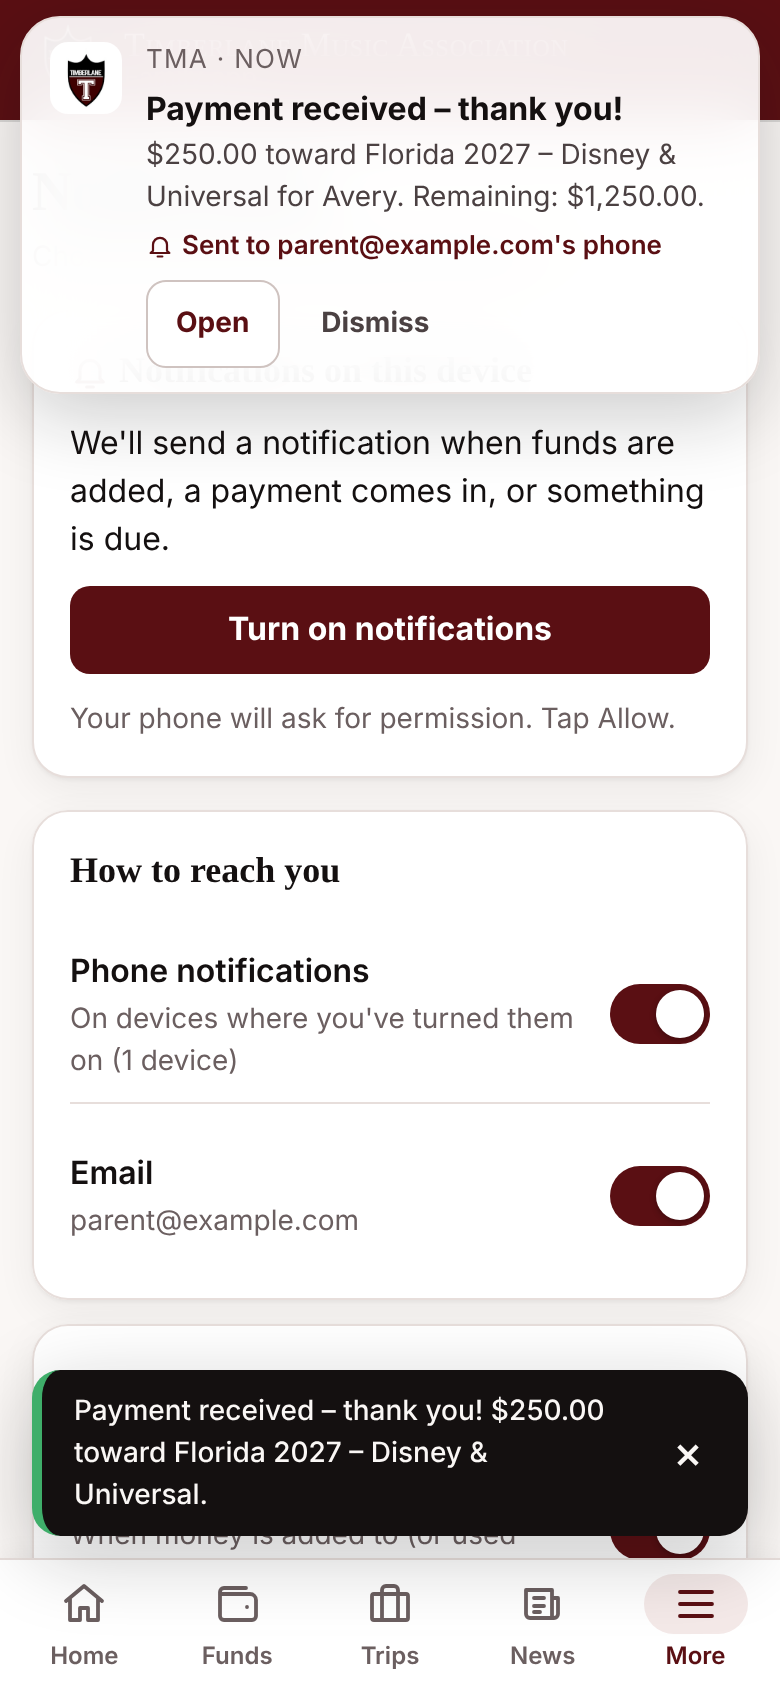
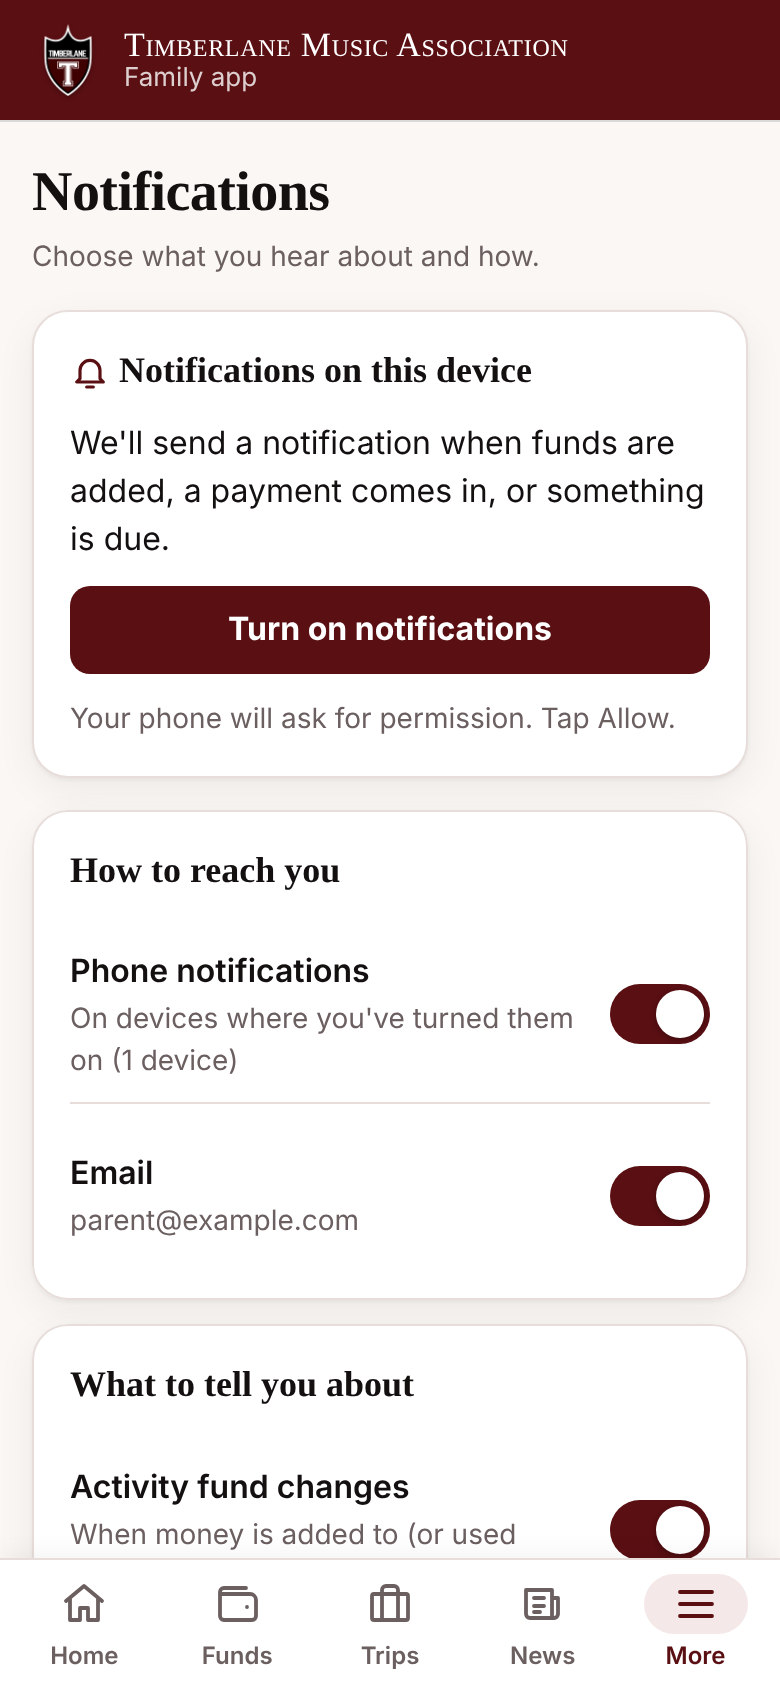
Add Playwright demo smoke test and refresh screenshots
Claude-Session: https://claude.ai/code/session_01FYUxguvRVi9Tkxqqi8m9S3

Changed region(s): [[0.0, 0.0, 0.9846, 0.2464], [0.0308, 0.8009, 0.9846, 0.9242]]

diff --git a/e2e/demo.spec.ts b/e2e/demo.spec.ts
@@ -1,0 +1,115 @@
+/**
+ * Smoke test of the demo build at phone size (ARCHITECTURE.md §11): a parent
+ * asks to use activity funds and pays online, the treasurer approves and posts
+ * a fundraiser credit, and the parent's "phone" gets the notification. It also
+ * refreshes the README screenshots in docs/screenshots.
+ *
+ * Run `npm run build:web` first; playwright.config.ts serves dist with vite preview.
+ */
+import { expect, test, type Page } from '@playwright/test';
+import { mkdirSync } from 'node:fs';
+import { fileURLToPath } from 'node:url';
+
+const SHOTS = fileURLToPath(new URL('../docs/screenshots/', import.meta.url));
+mkdirSync(SHOTS, { recursive: true });
+
+test.use({ viewport: { width: 390, height: 844 }, deviceScaleFactor: 2, contextOptions: { reducedMotion: 'reduce' } });
+
+async function shot(page: Page, name: string): Promise<void> {
+  await page.screenshot({ path: `${SHOTS}${name}.png`, animations: 'disabled' });
+}
+
+async function tab(page: Page, name: 'Home' | 'Funds' | 'Trips' | 'News' | 'More'): Promise<void> {
+  await page.getByRole('navigation', { name: 'Main' }).getByRole('link', { name }).click();
+}
+
+/** Dismiss toasts and in-app push banners (keeps screenshots and later assertions clear). */
+async function clearMessages(page: Page): Promise<void> {
+  const dismissers = page
+    .getByRole('button', { name: 'Dismiss message' })
+    .or(page.locator('.push-banner').getByRole('button', { name: 'Dismiss' }));
+  while ((await dismissers.count()) > 0) await dismissers.first().click();
+}
+
+async function signOut(page: Page): Promise<void> {
+  await tab(page, 'More');
+  await page.getByRole('button', { name: 'Sign out' }).click();
+  await expect(page.getByRole('button', { name: /Try as a parent/ })).toBeVisible();
+}
+
+test('parent pays and redeems, treasurer approves, parent is notified', async ({ page }) => {
+  const problems: string[] = [];
+  page.on('pageerror', (err) => problems.push(`pageerror: ${err.message}`));
+  page.on('console', (msg) => {
+    if (msg.type() === 'error') problems.push(`console: ${msg.text()}`);
+  });
+
+  // --- Sign in as a parent -----------------------------------------------------
+  await page.goto('./');
+  await expect(page.getByRole('button', { name: /Try as a parent/ })).toBeVisible();
+  await shot(page, 'signin');
+
+  await page.getByRole('button', { name: /Try as a parent/ }).click();
+  await expect(page.getByText('Available activity funds').first()).toBeVisible();
+  await expect(page.getByText('$440.00').first()).toBeVisible(); // Avery: $640 − $200 pending
+  await shot(page, 'home');
+
+  // --- Ask to use $100 of Avery's funds for Florida ----------------------------
+  await tab(page, 'Trips');
+  const useFunds = page.getByRole('button', { name: 'Use activity funds' }).first();
+  await expect(useFunds).toBeVisible();
+  await shot(page, 'trips');
+
+  await useFunds.click();
+  let dialog = page.getByRole('dialog');
+  await dialog.getByLabel('Amount to apply').fill('100.00');
+  await dialog.getByRole('button', { name: 'Send request' }).click();
+  await expect(dialog).toBeHidden();
+  await expect(page.getByText(/Request sent: \$100\.00/)).toBeVisible();
+  await clearMessages(page);
+
+  // --- Pay $250 online with the demo PayPal buttons ----------------------------
+  await page.getByRole('button', { name: 'Pay online' }).first().click();
+  dialog = page.getByRole('dialog');
+  await dialog.getByLabel('Amount to pay').fill('250.00');
+  const paypal = dialog.getByRole('button', { name: 'PayPal (Demo)' });
+  await expect(paypal).toBeEnabled();
+  await shot(page, 'pay');
+  await paypal.click();
+  await expect(page.getByText(/Payment received – thank you! \$250\.00/)).toBeVisible();
+  // The demo also "sends" the payment notification to this phone.
+  await expect(page.locator('.push-banner').filter({ hasText: 'Payment received' })).toBeVisible();
+  await clearMessages(page);
+
+  // Choosing notifications (for the README).
+  await page.goto('./#/notifications');
+  await expect(page.getByRole('heading', { name: 'Notifications', level: 1 })).toBeVisible();
+  await shot(page, 'notifications');
+
+  // --- Treasurer approves the request and posts a fundraiser credit ------------
+  await signOut(page);
+  await page.getByRole('button', { name: /Try as the treasurer/ }).click();
+  await page.goto('./#/admin');
+  const approve = page.getByRole('button', { name: 'Approve $100.00' });
+  await expect(approve).toBeVisible();
+  await shot(page, 'admin');
+  await approve.click();
+  await expect(page.getByText(/Approved \$100\.00 for Avery/)).toBeVisible();
+
+  await tab(page, 'More');
+  await clearMessages(page); // so the banner below is the credit's own notification
+  await page.getByRole('button', { name: 'Add credit & notify' }).click();
+  const banner = page.locator('.push-banner').filter({ hasText: '+$50.00 for Avery' });
+  await expect(banner).toBeVisible();
+  await expect(banner).toContainText("Sent to parent@example.com's phone");
+
+  // --- Back as the parent: the new balance -------------------------------------
+  await signOut(page);
+  await page.getByRole('button', { name: /Try as a parent/ }).click();
+  // $640 − $100 approved + $50 credit, minus the $200 still waiting = $390.
+  await expect(page.getByText('$390.00').first()).toBeVisible();
+  await tab(page, 'Funds');
+  await expect(page.getByText('Pizza Night fundraiser').first()).toBeVisible();
+
+  expect(problems).toEqual([]);
+});
